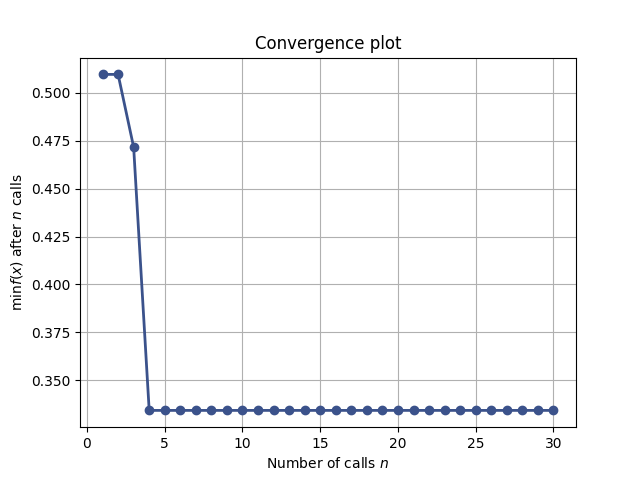
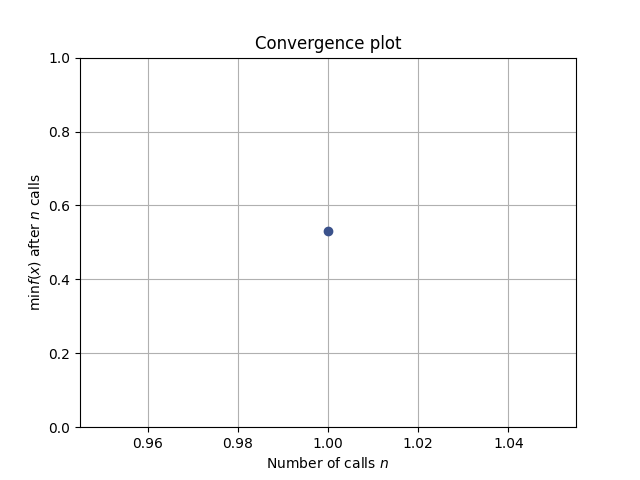
Added gpu_vs_cpu and bayesian optimization experiment

diff --git a/exp_kf_cnngp/kernel_flow_bayesian_optimization.py b/exp_kf_cnngp/kernel_flow_bayesian_optimization.py
@@ -10,7 +10,7 @@ from skopt.plots import plot_convergence
     
 sys.path.insert(0, os.getcwd() + '/.')
 
-from utils import get_MNIST_dataset, get_label_from_probability
+from utils import get_dataset, get_label_from_probability
 from cnn_gp import NNGPKernel
 from KernelFlow import KernelFlowsTorch
 from configs import kernel_flow_configs
@@ -18,15 +18,16 @@ from configs import kernel_flow_configs
 FLAGS = absl.app.flags.FLAGS
 DEVICE = torch.device('cuda' if torch.cuda.is_available() else 'cpu')
 
+
 def main(_):
-    X_train, Y_train, X_test, Y_test = get_MNIST_dataset(train_size=50000, val_size=1000, device=DEVICE)
+    X_train, Y_train, X_test, Y_test = get_dataset(dataset=FLAGS.dataset, train_size=50000, val_size=1000, device=DEVICE)
     cnn_gp = kernel_flow_configs.get_CNNGP(model_name = FLAGS.CNNGP_model, device=DEVICE)
-    N_i_arr = np.arange(100, 1000, 100)
+    N_i_arr = np.arange(100, 1600, 100)
     rand_acc = []
 
     # Getting accuracy for randomly initialized CNNGP
     for N_i in tqdm(N_i_arr):
-        Y_predictions_rand_cnngp, k_mat, t_mat = KernelFlowsTorch.kernel_regression(X_test=X_test, X_train=X_train[:N_i], 
+        Y_predictions_rand_cnngp = KernelFlowsTorch.kernel_regression(X_test=X_test, X_train=X_train[:N_i], 
                                                                                     Y_train=Y_train[:N_i], kernel=cnn_gp, 
                                                                                     regularization_lambda=0.0001, blocksize=250, 
                                                                                     device=DEVICE)
@@ -37,7 +38,7 @@ def main(_):
     # Training with Bayesian Optimization
     parameter_bounds = [(1e-3, 100.0), (0.0, 100.0)]
     KF_BO = KernelFlowsTorch(cnn_gp, device=DEVICE, regularization_lambda=1e-4)
-    res = KF_BO.fit(X_train, Y_train, iterations=30, batch_size=1200, 
+    res = KF_BO.fit(X_train, Y_train, iterations=50, batch_size=1200, 
                     sample_proportion=0.5, parameter_bounds_BO=parameter_bounds, 
                     random_starts=15, method='bayesian optimization')
 
@@ -45,11 +46,11 @@ def main(_):
     plot_convergence(res, ax=ax)
     ax.set_ylim((0,1))
     plt.show()
-    fig.savefig('./figs/bayesian_optimization_convergence.png')
+    fig.savefig('./figs/bayesian_optimization_convergence' + FLAGS.dataset + '.png')
 
     bo_acc = []
     for N_i in tqdm(N_i_arr):
-        Y_predictions_trained, k_mat, t_mat = KernelFlowsTorch.kernel_regression(X_test=X_test, X_train=X_train[:N_i], 
+        Y_predictions_trained = KernelFlowsTorch.kernel_regression(X_test=X_test, X_train=X_train[:N_i], 
                                                                                 Y_train=Y_train[:N_i], kernel=cnn_gp, 
                                                                                 regularization_lambda=0.0001, blocksize=250, 
                                                                                 device=DEVICE)
@@ -64,10 +65,12 @@ def main(_):
     ax.set_ylim((0,100))
     plt.legend()
     plt.show()
-    fig.savefig('./figs/bayesian_optimization_accuracy.png')
+    fig.savefig('./figs/bayesian_optimization_accuracy' + FLAGS.dataset + '.png')
 
 if __name__ == '__main__':
     f = absl.app.flags
     f.DEFINE_string("CNNGP_model", "covnet",
                     "which CNNGP model to test on")
+    f.DEFINE_string("dataset", "mnist",
+                "which dataset to work with")
     absl.app.run(main)

diff --git a/KernelFlow/Torch/KF_parametric_catagorical_torch.py b/KernelFlow/Torch/KF_parametric_catagorical_torch.py
@@ -235,8 +235,7 @@ class KernelFlowsTorch():
         # prediction = torch.matmul(t_matrix, torch.matmul(torch.linalg.inv(k_matrix), Y_train))
         k_inv_Y = torch.linalg.lstsq(k_matrix.cpu(), Y_train.cpu(), rcond=1e-8).solution
         prediction = torch.matmul(t_matrix.cpu(), k_inv_Y)
-        return prediction, k_matrix, t_matrix
-
+        return prediction
 
     def sample_size_linear(self, iterations, range_tuple):
         return np.linspace(range_tuple[0], range_tuple[1], num = iterations)[::-1]
@@ -262,8 +261,8 @@ class KernelFlowsTorch():
             pi[i][sample_indices[i]] = 1
 
         return pi
-        
-    def _rho_bo(self, batch_size, sample_proportion, params) -> torch.Tensor:
+
+    def _rho_bo(self, batch_size, sample_proportion, params, store_rho: bool = True) -> torch.Tensor:
 
         sample_indices, batch_indices = KernelFlowsTorch.batch_creation(dataset_size= self._X.shape[0],
                                                                         batch_size= batch_size,
@@ -285,7 +284,6 @@ class KernelFlowsTorch():
         # rho = 1 - trace(Y_s^T * (pi_mat * K(X_b, X_b)^-1 pi_mat^T) * Y_s) / trace(Y_b^T K(X_b, X_b)^-1 Y_b)
 
         # Set the parameters of the kernel
-        no_params = len(list(self.cnn_gp_kernel.parameters()))
         for i, param in enumerate(self.cnn_gp_kernel.parameters()):
             param.data = torch.tensor([params[i % 2]]).to(self.device)
 
@@ -318,8 +316,21 @@ class KernelFlowsTorch():
             print("Warning, rho < 0. Setting to 1.")
             rho.data = torch.tensor(1, device=self.device)
 
+        # Check if the reduction in value of rho is real or due to instability
+        # If a new minimum is found, evaluate rho again with a different batch and sample 
+        # and see if the value of rho is still less than the lowest value
+        if store_rho:        
+            eps = 1e-1
+            min_rho = np.min(self.rho_values) if len(self.rho_values) > 0.0 else 0.0
+            if rho < min_rho:
+                rho_counter_check = self._rho_bo(batch_size=batch_size, sample_proportion=sample_proportion, params=params, store_rho=False)
+                if rho_counter_check > rho + eps:
+                    print("Value of rho was not stable, setting to 1.")
+                    rho.data = torch.tensor(1, device=self.device)
+
+            self.rho_values.append(rho.cpu().numpy().item())
+
         # skopt Bayesian optimization requires a scalar output from the blackbox function
-        self.rho_values.append(rho.cpu().numpy().item())
         return rho.cpu().numpy().item()
 
 
@@ -568,6 +579,7 @@ class KernelFlowsTorch():
             parameter_bounds = list(zip(lower_bounds, upper_bounds))
         else:
             parameter_bounds = parameter_bounds_BO
+
         # Applied gaussian process based bayesian optimization
         bo_result = gp_minimize(rho_objective,  # the function to minimize
                         parameter_bounds,   # the bounds on each parameter

diff --git a/utils/utils.py b/utils/utils.py
@@ -12,6 +12,10 @@ class tqdm_skopt(object):
     def __call__(self, res=1):
         self._bar.update(1)
 
+def get_dataset(dataset:str, train_size: int, val_size: int, shuffle: bool = True, device: str = 'cpu')-> tuple[torch.Tensor, torch.Tensor, torch.Tensor, torch.Tensor]:
+    if dataset == 'mnist':
+        return get_MNIST_dataset(train_size=train_size, val_size=val_size, shuffle=shuffle, device=device)
+
 def get_MNIST_dataset(train_size: int, val_size: int, shuffle: bool = True, device: str = 'cpu') -> tuple[torch.Tensor, torch.Tensor, torch.Tensor, torch.Tensor]:
     """Returns the MNIST dataset of images and labels with a training set and a validation set
 
